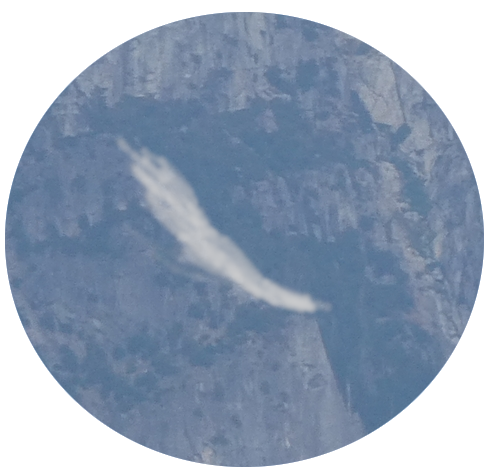
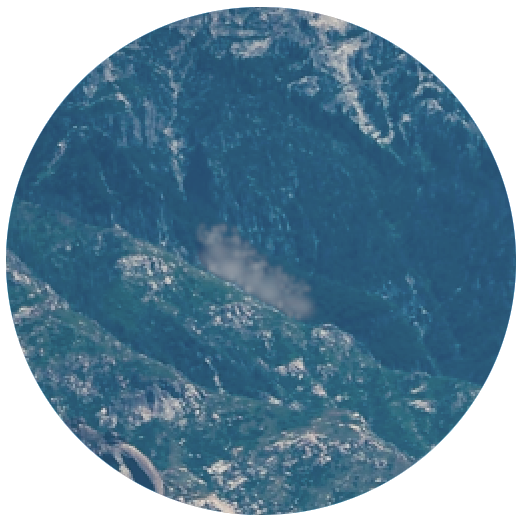
Revise scenario7 smoke and closeup for more realism

diff --git a/scenarios-data.js b/scenarios-data.js
@@ -199,14 +199,14 @@ const SCENARIOS = {
     smoke: {
       photoId: "delilah_12",
       overlayImage: "assets/smoke_forestfire.png",
-      xPos: 1490, yPos: 382, widthPx: 77,   // pixel coords on the 1920x968 native photo
+      xPos: 1490, yPos: 352, widthPx: 77,   // pixel coords on the 1920x968 native photo
       closeupImage: "images/closeups/scenario5_closeup.png"
     },
     answers: { 
       classification: "illegitimate",
       azimuth_tolerance_min: 15,
       distance: { miles: 4.8, tolerance: 0.5 },
-      landmark: "Deer Crk Rec Area",
+      landmark: "Logger Point",
       legal: { township: 13, range: 28, section: 9, quarter: "SW" },
       base_visible: "no",
       volume: ["small"],
@@ -226,7 +226,7 @@ const SCENARIOS = {
     smoke: {
       photoId: "delilah_11",
       overlayImage: "assets/smoke_rockyfire.png",
-      xPos: 1750, yPos: 174, widthPx: 77,   // pixel coords on the 1920x968 native photo
+      xPos: 1750, yPos: 245, widthPx: 77,   // pixel coords on the 1920x968 native photo
       closeupImage: "images/closeups/scenario6_closeup.png"
     },
     answers: { 
@@ -253,7 +253,7 @@ const SCENARIOS = {
     smoke: {
       photoId: "delilah_9",
       overlayImage: "assets/smoke_ridge.png",
-      xPos: 1300, yPos: 350, widthPx: 142,   // pixel coords on the 1920x968 native photo
+      xPos: 1390, yPos: 428, widthPx: 85,   // pixel coords on the 1920x968 native photo
       closeupImage: "images/closeups/scenario7_closeup.png"
     },
     answers: { 
